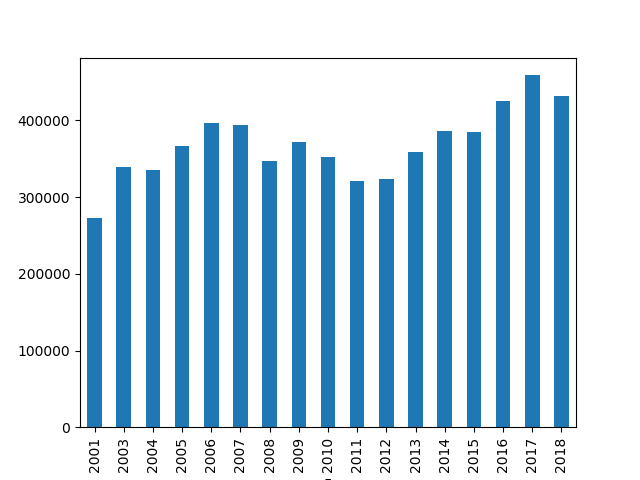
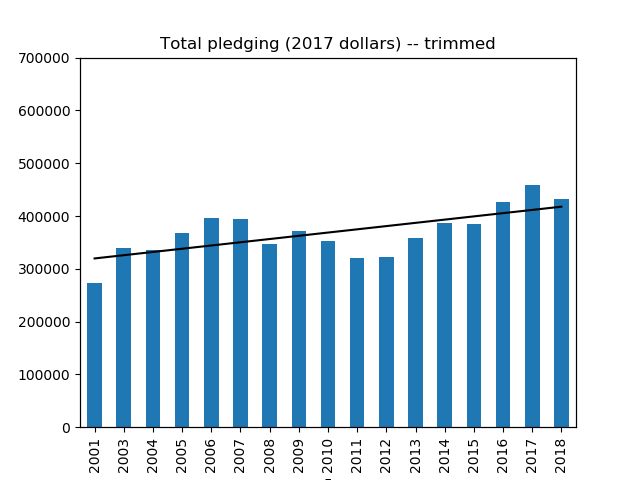
tinkering with linregress

diff --git a/pledges.py b/pledges.py
@@ -335,26 +335,23 @@ def run(trim=False):
     # plt.savefig('pics/biggesttwo.png')
     plt.close('all')
 
-    # ax = sums.plot(
-    #     kind='bar',
-    #     stacked=True,
-    #     legend=False,
-    #     title="Total pledging (2017 dollars){}".format(tsuffix),
-    #     # ylim=(0, 2.0 * sums.mean()),
-    #     ylim = (0, 700000.0)
-    # )
-    # plt.show()
     sumrange = range(0, len(sums))
     slope, intercept, r, p, stderr = stats.linregress(sumrange, sums)
     print(slope, intercept, r, p, stderr)
     linr = pd.Series([intercept + i * slope for i in sumrange], index=sums.index)
-    combined = pd.DataFrame({'Sum': sums, 'Regression': linr})
-    ax = combined['Regression'].plot(linestyle='-')
-    combined['Sum'].plot(kind='bar', ax=ax)
-    # linr.plot(ax=ax)
-    plt.show()
+    fig, ax  = plt.subplots()
+    sums.plot(
+        kind='bar',
+        legend=False,
+        title="Total pledging (2017 dollars){}".format(tsuffix),
+        ylim = (0, 700000.0)
+    )
+    ax2 = ax.twinx()
+    ax2.set_ylim(0, 700000.0)
+    ax2.tick_params(axis='y', right=False, labelright=False)
+    ax2.plot(ax.get_xticks(), linr, color='k')
+    # plt.show()
     plt.savefig('pics/totals{}.png'.format(tsuffix))
-    # plt.savefig('pics/totals.png')
     plt.close('all')
 
     bins=np.logspace(1.0, 5.0, num=15)
